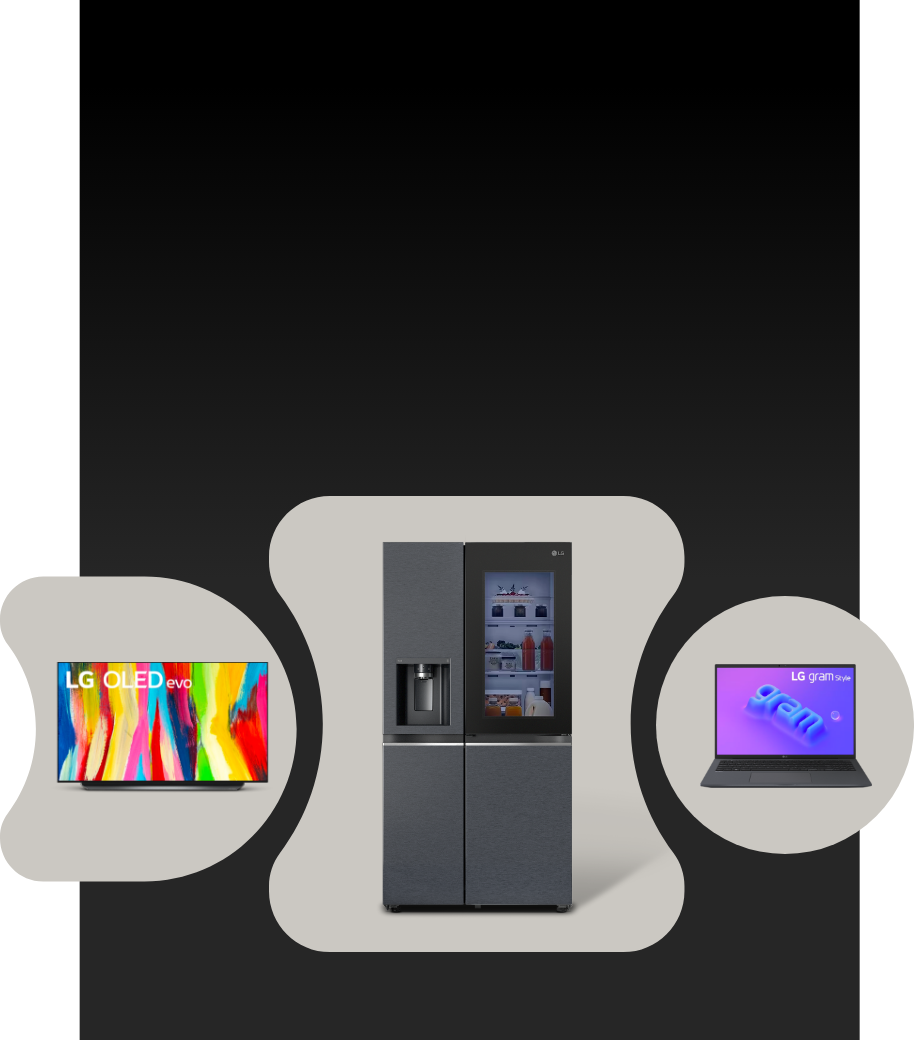
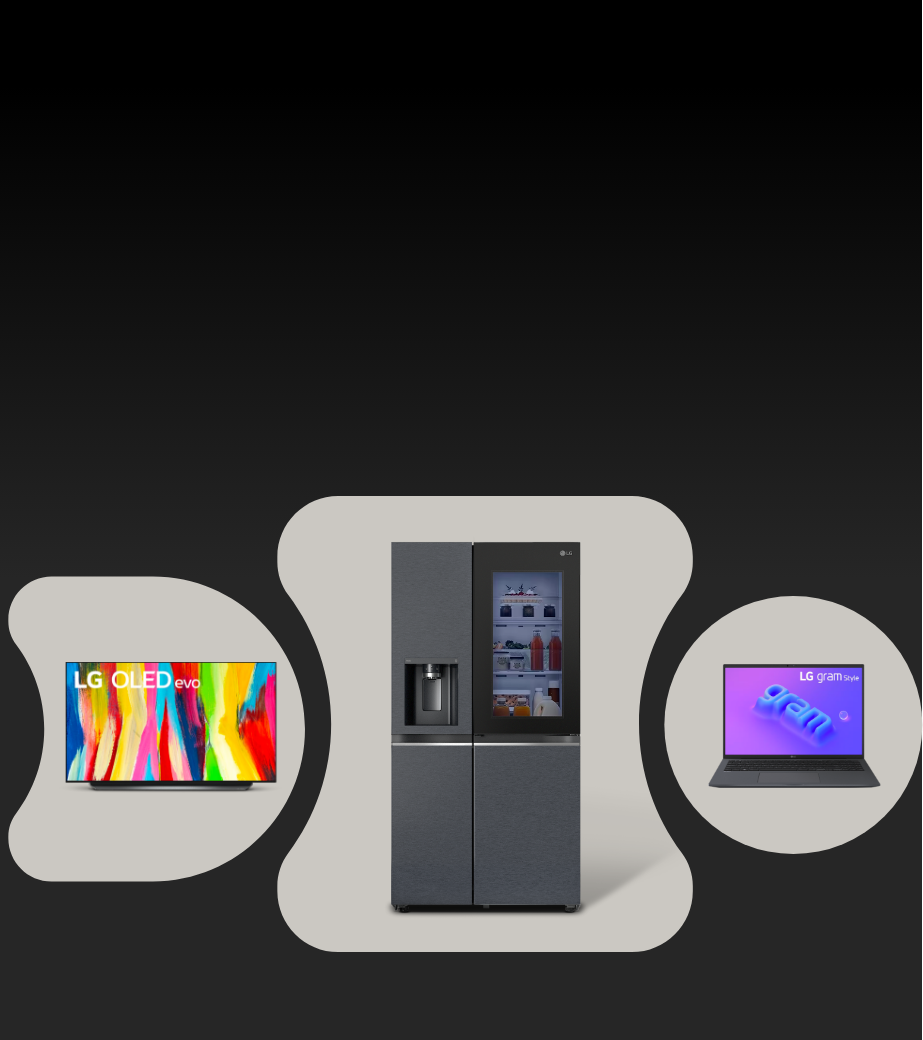
대만 이태리 독일 수정

diff --git a/src/assets/css/index.scss b/src/assets/css/index.scss
@@ -590,6 +590,7 @@
 
 		&--secondary {
 			font-size: 16px;
+			line-height: 1.2em;
 			&.desc--center {
 				margin-top: -35px;
 			}
@@ -604,6 +605,9 @@
 			}
 			&--secondary {
 				font-size: 14px;
+				br {
+					display: none;
+				}
 				&.desc--center {
 					margin-top: -10px;
 				}
@@ -1440,6 +1444,12 @@
 	}
 
 	&[data-locale=tw] {
+		.visual__visual {
+			@media screen and (max-width: 1024px) {
+				background-size: 113%;
+				background-position: 53% 100%;
+			}
+		}
 		.benefit-more__item {
 			&:nth-child(2) {
 				.benefit-more__ico {
@@ -1449,6 +1459,27 @@
 			&:nth-child(3) {
 				.benefit-more__ico {
 					background-image: url(../images/ico_benefit02.png);
+				}
+			}
+		}
+
+		.benefit-more__row{
+			&.__last {
+				margin-top: 15px;
+				.benefit-more__item {
+					&:nth-child(1) {
+						.benefit-more__ico {
+							background-image: url(../images/ico_benefit04.png);
+						}
+					}
+					&:nth-child(2) {
+						.benefit-more__ico {
+							background-image: url(../images/ico_benefit05.png);
+						}
+					}
+				}
+				@media screen and (max-width: 1024px) {
+					margin-top: 10px;
 				}
 			}
 		}

diff --git a/src/tw/index.html b/src/tw/index.html
@@ -844,6 +844,22 @@
                     </div>
                   </div>
                 </div>
+                <div class="benefit-more__row __last">
+                  <div class="benefit-more__item">
+                    <div class="benefit-more__group">
+                      <p class="benefit-more__text">
+                        LINE 購物 最高回饋 LINE POINTS 15%
+                      </p>
+                      <i class="benefit-more__ico"></i>
+                    </div>
+                  </div>
+                  <div class="benefit-more__item">
+                    <div class="benefit-more__group">
+                      <p class="benefit-more__text">ShopBack 現金回饋 4%</p>
+                      <i class="benefit-more__ico"></i>
+                    </div>
+                  </div>
+								</div>
               </div>
               <div class="term">
                 <a href="#">

diff --git a/src/index.html b/src/index.html
@@ -339,10 +339,13 @@
               <div class="benefit__container">
                 <div class="benefit__row">
                   <div class="benefit__contents">
-										<p class="title">Offerta riservata ai soli<br>utenti registrati</p>
+										<p class="title">1Offerta riservata ai soli<br>utenti registrati</p>
                     <p class="desc">
 											Accedi al tuo account, aggiungi a carrello il prodotto desiderato e inserisci il coupon ricevuto via email per ottenere lo sconto
                     </p>
+                    <p class="desc--secondary">
+											Accedi al tuo account, aggiungi a carrello il prodotto desiderato e inserisci il coupon ricevuto via email per ottenere lo sconto
+										</p>
                   </div>
                   <div class="coupon">
                     <div class="coupon__left">
